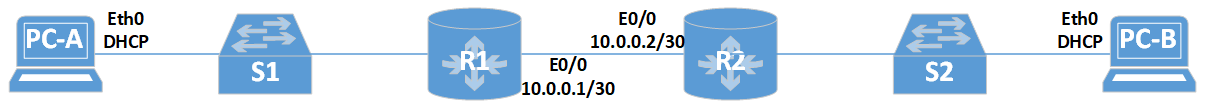
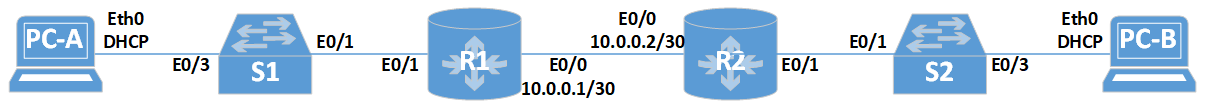
Commit 3

diff --git a/Labs/Hw03/README.md b/Labs/Hw03/README.md
@@ -19,27 +19,6 @@ Subnet A:
 Type your answers here.
 Record the first IP address in the Addressing Table for R1 G0/0/1.100.
 
-| Таблицы       | Это                | Круто |
-| ------------- |:------------------:|:------|
-| столбец 3     | выровнен вправо    | $1600 |
-| столбец 2     | выровнен по центру |   $12 |
-| зебра-строки  | прикольные         |    $1 |
-
-|Device|Interface|IP Address|Subnet Mask|Default Gateway|
-|------|---------|----------|---------------|-----------|
-|R1	   |G0/0/0	 |10.0.0.1	|255.255.255.252|N/A
-R1	G0/0/1	N/A	N/A	N/A
-R1	G0/0/1.100	blank	blank	N/A
-R1	G0/0/1.200	blank	blank	N/A
-R1	G0/0/1.1000	N/A	N/A	N/A
-R2	G0/0/0	10.0.0.2	255.255.255.252	N/A
-R2	G0/0/1	blank	blank	N/A
-S1	VLAN 200	blank	blank	blank
-S2	VLAN 1	blank	blank	blank
-PC-A	NIC	DHCP	DHCP	DHCP
-PC-B	NIC	DHCP	DHCP	DHCP
-
-
 b.	One subnet, “Subnet B”, supporting 28 hosts (the management VLAN at R1). 
 Subnet B:
 Type your answers here.
@@ -49,6 +28,21 @@ c.	One subnet, “Subnet C”, supporting 12 hosts (the client network at R2).
 Subnet C:
 Type your answers here.
 Record the first IP address in the Addressing Table for R2 G0/0/1.
+
+
+|Device|Interface|IP Address|Subnet Mask    |Default Gateway|
+|:----:|:--------|:---------|:--------------|:-------------:|
+|R1	   |E0/0	 |10.0.0.1  |255.255.255.252|N/A
+|R1	   |E0/1	 |N/A	    |N/A	        |N/A
+|R1	   |E0/1.100 |	        |	            |N/A
+|R1	   |E0/1.200 |	        |	            |N/A
+|R1	   |E0/1.1000|N/A       |N/A	        |N/A
+|R2	   |E0/0	 |10.0.0.2  |255.255.255.252|N/A
+|R2	   |E0/1	 |	        |	            |N/A
+|S1	   |VLAN 200 |	        |	            |
+|S2	   |VLAN 1	 |	        |	            |
+|PC-A  |NIC	     |DHCP	    |DHCP	        |DHCP
+|PC-B  |NIC	     |DHCP	    |DHCP	        |DHCP
 
 ### Шаг 2: Коммутация сети по схеме
 ### Шаг 3: Настройка основных параметров для каждого маршрутизатора
